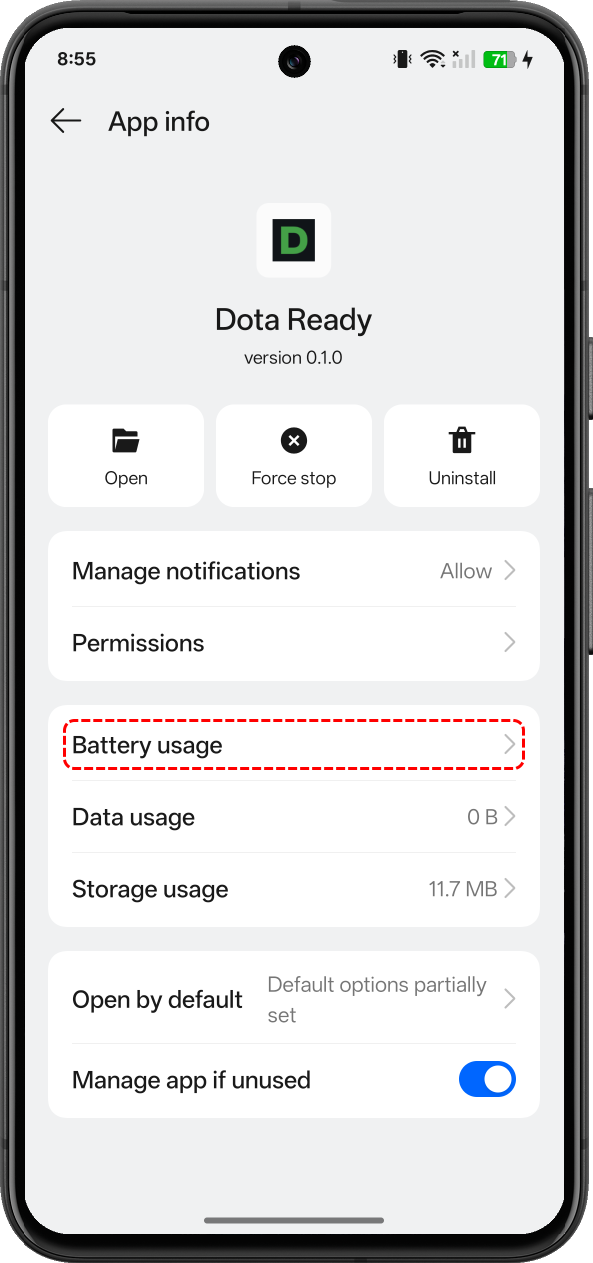
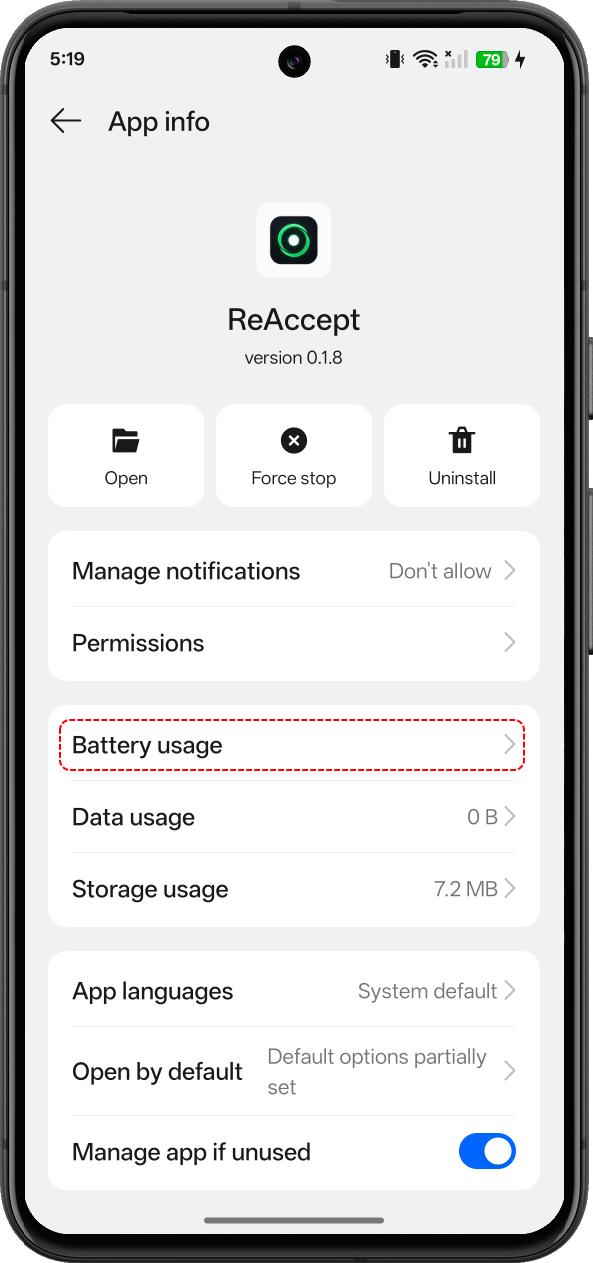
ui: refresh ReAccept product screenshots
Publish the rebranded desktop and Android captures and hide the Android QR code on narrow screens while preserving direct APK download.

diff --git a/index.html b/index.html
@@ -237,7 +237,8 @@
         </div>
         <div class="download-card" id="download-android">
           <h3>Android</h3>
-          <p>Scan the QR code, or download the APK directly.</p>
+          <p class="download-copy-desktop">Scan the QR code, or download the APK directly.</p>
+          <p class="download-copy-mobile">Download the APK directly to your phone.</p>
           <img class="qr" src="assets/screenshots/en/android-qr-placeholder.png"
                alt="QR code to download the ReAccept Android app" loading="lazy">
           <a class="btn btn-secondary" href="https://github.com/enyded/dota_ready/releases/latest/download/ReAccept.apk">

diff --git a/styles.css b/styles.css
@@ -379,6 +379,10 @@ h1, h2, h3 {
   color: var(--fg-dim);
 }
 
+.download-copy-mobile {
+  display: none;
+}
+
 .qr {
   width: 140px;
   height: 140px;
@@ -440,6 +444,15 @@ h1, h2, h3 {
   .nav-cta {
     padding: 7px 12px;
     font-size: 0.9rem;
+  }
+
+  .download-copy-desktop,
+  .qr {
+    display: none;
+  }
+
+  .download-copy-mobile {
+    display: block;
   }
 
   .callout-sequence img {

diff --git a/README.md b/README.md
@@ -38,8 +38,8 @@ Filenames must stay identical across locale folders so the fallback lookup is a 
 
 ## Still TODO before launch
 
-- [ ] **Screenshots (`en/`)** — the product owner will replace screenshots containing the old
-  brand. The generated `og-cover.png` already uses the approved ReAccept icon and copy.
+- [x] **Screenshots (`en/`)** — the product owner supplied the rebranded Windows and Android
+  screenshots. The generated `og-cover.png` uses the same approved ReAccept icon and copy.
 - [x] **Download links** — point at the stable GitHub Release aliases `ReAccept-Setup.exe` and
   `ReAccept.apk`; the QR code encodes the same Android URL.
 - [x] **Support email** — `support.d2r@gmail.com`, wired into the footer, `privacy.html`, and
